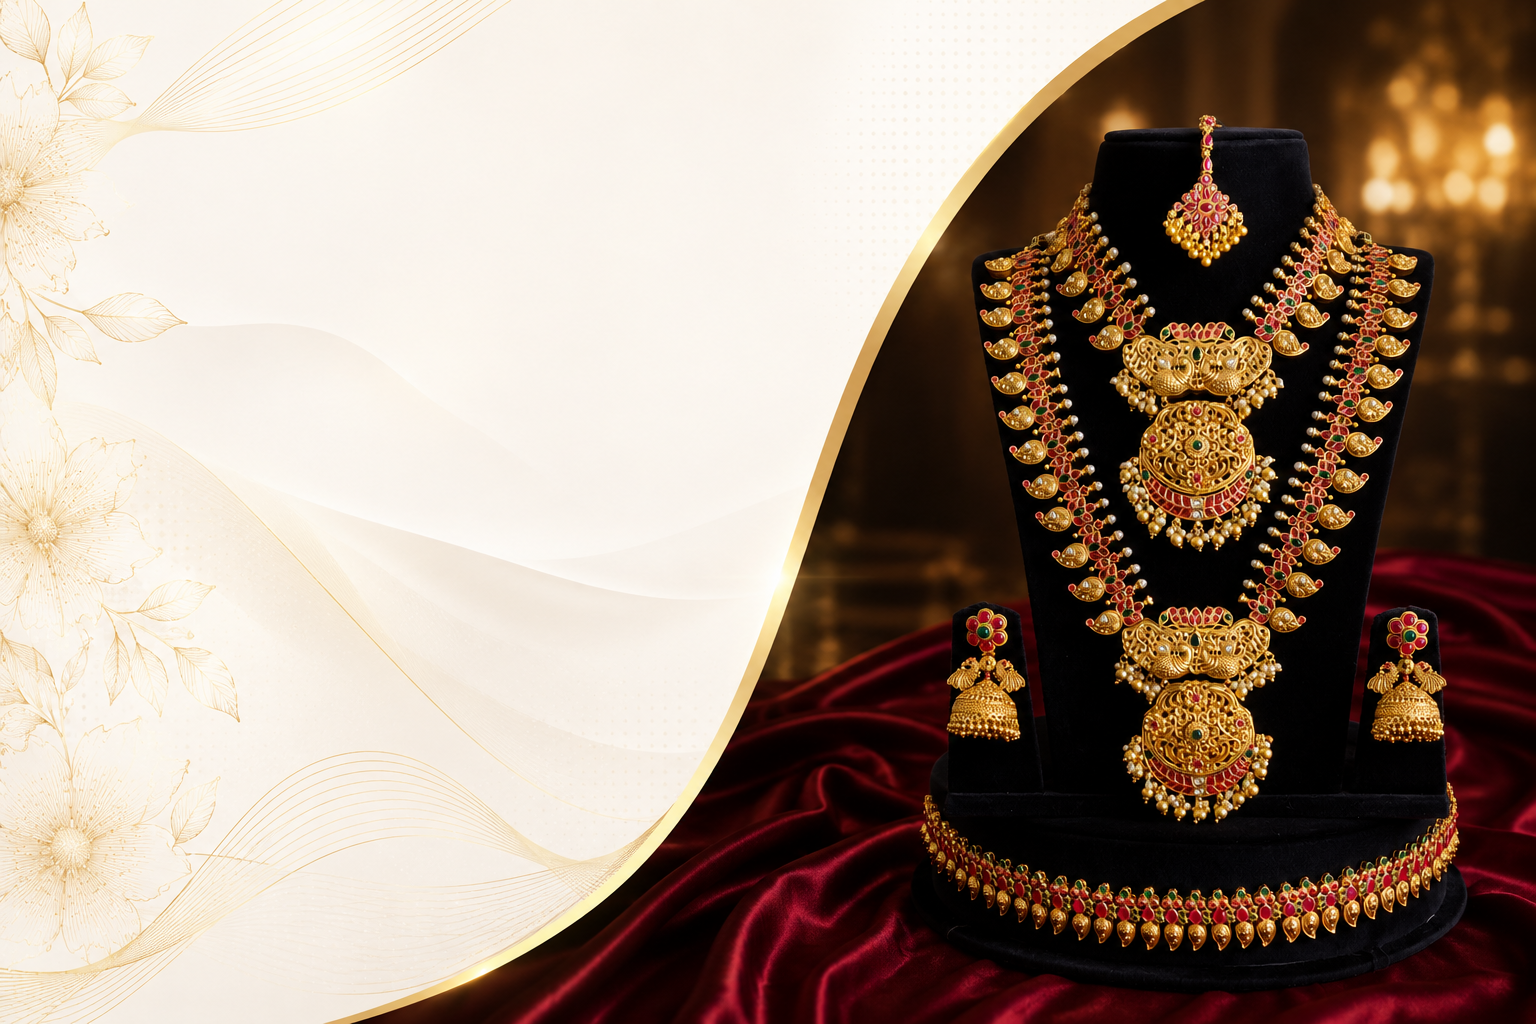
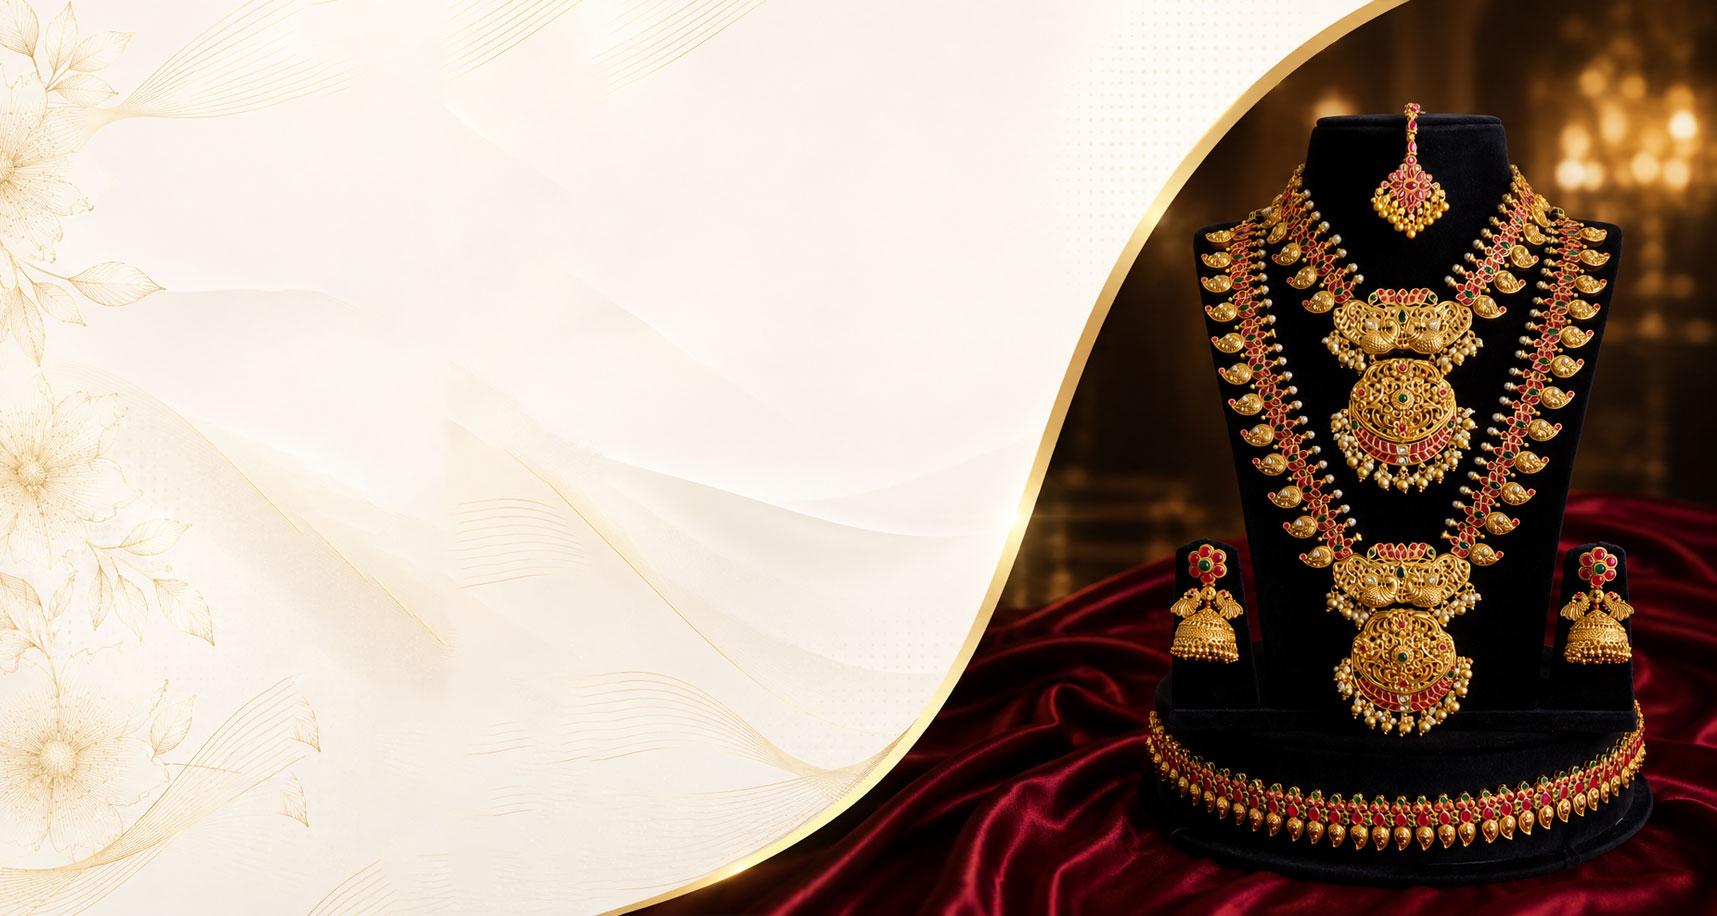
feat: update asset images and refactor hero components for improved layout and responsiveness

diff --git a/src/components/home/Bridal.jsx b/src/components/home/Bridal.jsx
@@ -99,11 +99,11 @@ export default function Bridal() {
           </div>
 
           {/* Right — Image Grid */}
-          <div className="reveal-bridal" style={{ display:'grid', gridTemplateColumns:'1fr 1fr', gridTemplateRows:'auto auto', gap:'16px' }}>
+          <div className="reveal-bridal" style={{ display:'grid', gridTemplateColumns:'1fr 1fr', gap:'16px', alignItems:'start' }}>
             <div className="bridal-top-img" style={{
               gridColumn:'1 / -1',
               borderRadius:'20px', overflow:'hidden',
-              height:'260px',
+              aspectRatio:'16/7',
               boxShadow:'0 16px 48px rgba(146,46,97,0.15)',
             }}>
               <img
@@ -117,13 +117,12 @@ export default function Bridal() {
             {bridalImages.slice(0, 2).map(img => (
               <div key={img.src} className="bridal-sub-img" style={{
                 borderRadius:'16px', overflow:'hidden',
-                height:'180px',
                 boxShadow:'0 12px 32px rgba(146,46,97,0.12)',
               }}>
                 <img
                   src={img.src}
                   alt={img.alt}
-                  style={{ width:'100%', height:'100%', objectFit:'cover', transition:'transform 0.6s ease' }}
+                  style={{ width:'100%', height:'auto', display:'block', transition:'transform 0.6s ease' }}
                   onMouseEnter={e => e.target.style.transform='scale(1.07)'}
                   onMouseLeave={e => e.target.style.transform='scale(1)'}
                 />
@@ -133,7 +132,7 @@ export default function Bridal() {
             <div style={{
               display:'flex', alignItems:'center', justifyContent:'center',
               borderRadius:'16px',
-              height:'180px',
+              aspectRatio:'4/3',
               background:'linear-gradient(135deg,#922e61,#7a2451)',
               border:'1px solid rgba(212,173,90,0.2)',
               flexDirection:'column', gap:'8px',
@@ -145,13 +144,12 @@ export default function Bridal() {
             {/* 5th — extra bridal image */}
             <div className="bridal-sub-img" style={{
               borderRadius:'16px', overflow:'hidden',
-              height:'180px',
               boxShadow:'0 12px 32px rgba(146,46,97,0.12)',
             }}>
               <img
                 src={bridalImg4}
                 alt="Bridal Temple Jewellery"
-                style={{ width:'100%', height:'100%', objectFit:'cover', transition:'transform 0.6s ease' }}
+                style={{ width:'100%', height:'auto', display:'block', transition:'transform 0.6s ease' }}
                 onMouseEnter={e => e.target.style.transform='scale(1.07)'}
                 onMouseLeave={e => e.target.style.transform='scale(1)'}
               />

diff --git a/src/components/about/AboutHero.jsx b/src/components/about/AboutHero.jsx
@@ -1,6 +1,6 @@
 import { useEffect, useRef } from 'react';
 import { Link } from 'react-router-dom';
-import AboutImage from '../../assets/AboutStore.jpg';
+import AboutImage from '../../assets/collections/gold/gold-antique.png';
 
 export default function AboutHero() {
   const ref = useRef(null);
@@ -31,7 +31,7 @@ export default function AboutHero() {
       <div style={{ position:'absolute', inset:0, background:'rgba(212,173,90,0.12)' }} />
 
       {/* Centered content */}
-      <div className="container about-hero-content" style={{ position:'relative', zIndex:2, display:'flex', flexDirection:'column', alignItems:'center', textAlign:'center', padding:'120px 24px 80px' }}>
+      <div className="container about-hero-content" style={{ position:'relative', zIndex:2, display:'flex', flexDirection:'column', alignItems:'center', textAlign:'center', padding:'160px 24px 80px' }}>
 
         {/* Badge */}
         <div className="ra" style={{ display:'inline-flex', alignItems:'center', gap:'10px', padding:'8px 22px', background:'rgba(212,173,90,0.15)', border:'1px solid rgba(212,173,90,0.50)', borderRadius:'50px', marginBottom:'28px' }}>
@@ -42,10 +42,10 @@ export default function AboutHero() {
 
         {/* Headline */}
         <div className="ra" style={{ marginBottom:'20px' }}>
-          <h1 style={{ margin:0, fontFamily:"'Poppins',sans-serif", fontSize:'clamp(32px,4.5vw,64px)', fontWeight:'700', lineHeight:'1.12', letterSpacing:'-1px', color:'#FFFFFF' }}>
+          <h1 style={{ margin:0, fontFamily:"'Poppins',sans-serif", fontSize:'clamp(26px,3.8vw,52px)', fontWeight:'700', lineHeight:'1.12', letterSpacing:'-1px', color:'#FFFFFF' }}>
             A Legacy Built on
           </h1>
-          <h1 style={{ margin:0, fontFamily:"'Poppins',sans-serif", fontSize:'clamp(32px,4.5vw,64px)', fontWeight:'700', lineHeight:'1.12', letterSpacing:'-1px', background:'linear-gradient(135deg,#d4ad5a 0%,#E8D08A 50%,#b08a3a 100%)', WebkitBackgroundClip:'text', WebkitTextFillColor:'transparent', backgroundClip:'text', paddingBottom:'6px' }}>
+          <h1 style={{ margin:0, fontFamily:"'Poppins',sans-serif", fontSize:'clamp(26px,3.8vw,52px)', fontWeight:'700', lineHeight:'1.12', letterSpacing:'-1px', background:'linear-gradient(135deg,#d4ad5a 0%,#E8D08A 50%,#b08a3a 100%)', WebkitBackgroundClip:'text', WebkitTextFillColor:'transparent', backgroundClip:'text', paddingBottom:'6px' }}>
             Trust, Craftsmanship &amp; Elegance
           </h1>
         </div>

diff --git a/src/components/gold/GoldHero.jsx b/src/components/gold/GoldHero.jsx
@@ -1,7 +1,7 @@
 import { useEffect, useRef } from "react";
 import { ArrowRight } from "lucide-react";
 import { Link } from "react-router-dom";
-import GoldHeroImg from "../../assets/GoldIntro.png";
+import GoldHeroImg from "../../assets/Goldhero.png";
 
 export default function GoldHero() {
   const ref = useRef(null);
@@ -32,29 +32,20 @@ export default function GoldHero() {
       className="hero-fixed"
       style={{
         position: "relative",
-        height: "620px",
-        overflow: "hidden",
       }}
     >
       <img
         src={GoldHeroImg}
         alt=""
-        style={{
-          position: "absolute",
-          inset: 0,
-          width: "100%",
-          height: "100%",
-          objectFit: "cover",
-          objectPosition: "center",
-        }}
+        style={{ width: "100%", height: "auto", display: "block" }}
       />
       <div style={{ position: "absolute", inset: 0, background: "rgba(0,0,0,0.18)" }} />
       <div
         className="container"
         style={{
-          position: "relative",
+          position: "absolute",
+          inset: 0,
           zIndex: 2,
-          height: "100%",
           display: "flex",
           flexDirection: "column",
           justifyContent: "center",
@@ -182,17 +173,6 @@ export default function GoldHero() {
           </Link>
         </div>
       </div>
-      <div
-        style={{
-          position: "absolute",
-          bottom: 0,
-          left: 0,
-          right: 0,
-          height: "60px",
-          background:
-            "linear-gradient(to top,rgba(250,246,238,0.45),transparent)",
-        }}
-      />
     </section>
   );
 }

diff --git a/src/components/platinum/PlatinumHero.jsx b/src/components/platinum/PlatinumHero.jsx
@@ -32,30 +32,21 @@ export default function PlatinumHero() {
       className="hero-fixed"
       style={{
         position: 'relative',
-        height: '620px',
-        overflow: 'hidden',
       }}
     >
       <img
         src={PlatinumHeroImg}
         alt=""
-        style={{
-          position: 'absolute',
-          inset: 0,
-          width: '100%',
-          height: '100%',
-          objectFit: 'cover',
-          objectPosition: 'center',
-        }}
+        style={{ width: '100%', height: 'auto', display: 'block' }}
       />
       <div style={{ position: 'absolute', inset: 0, background: 'rgba(0,0,0,0.18)' }} />
 
       <div
         className="container"
         style={{
-          position: 'relative',
+          position: 'absolute',
+          inset: 0,
           zIndex: 2,
-          height: '100%',
           display: 'flex',
           flexDirection: 'column',
           justifyContent: 'center',
@@ -158,16 +149,6 @@ export default function PlatinumHero() {
           </Link>
         </div>
       </div>
-      <div
-        style={{
-          position: 'absolute',
-          bottom: 0,
-          left: 0,
-          right: 0,
-          height: '60px',
-          background: 'linear-gradient(to top,rgba(250,246,238,0.45),transparent)',
-        }}
-      />
     </section>
   );
 }

diff --git a/src/components/diamond/DiamondHero.jsx b/src/components/diamond/DiamondHero.jsx
@@ -32,30 +32,21 @@ export default function DiamondHero() {
       className="hero-fixed"
       style={{
         position: 'relative',
-        height: '620px',
-        overflow: 'hidden',
       }}
     >
       <img
         src={DiamondHeroImg}
         alt=""
-        style={{
-          position: 'absolute',
-          inset: 0,
-          width: '100%',
-          height: '100%',
-          objectFit: 'cover',
-          objectPosition: 'center',
-        }}
+        style={{ width: '100%', height: 'auto', display: 'block' }}
       />
       <div style={{ position: 'absolute', inset: 0, background: 'rgba(0,0,0,0.18)' }} />
 
       <div
         className="container"
         style={{
-          position: 'relative',
+          position: 'absolute',
+          inset: 0,
           zIndex: 2,
-          height: '100%',
           display: 'flex',
           flexDirection: 'column',
           justifyContent: 'center',
@@ -158,16 +149,6 @@ export default function DiamondHero() {
           </Link>
         </div>
       </div>
-      <div
-        style={{
-          position: 'absolute',
-          bottom: 0,
-          left: 0,
-          right: 0,
-          height: '60px',
-          background: 'linear-gradient(to top,rgba(250,246,238,0.45),transparent)',
-        }}
-      />
     </section>
   );
 }

diff --git a/src/components/bridal/BridalHero.jsx b/src/components/bridal/BridalHero.jsx
@@ -32,30 +32,21 @@ export default function BridalHero() {
       className="hero-fixed"
       style={{
         position: 'relative',
-        height: '620px',
-        overflow: 'hidden',
       }}
     >
       <img
         src={BridalHeroImg}
         alt=""
-        style={{
-          position: 'absolute',
-          inset: 0,
-          width: '100%',
-          height: '100%',
-          objectFit: 'cover',
-          objectPosition: 'center',
-        }}
+        style={{ width: '100%', height: 'auto', display: 'block' }}
       />
       <div style={{ position: 'absolute', inset: 0, background: 'rgba(0,0,0,0.18)' }} />
 
       <div
         className="container"
         style={{
-          position: 'relative',
+          position: 'absolute',
+          inset: 0,
           zIndex: 2,
-          height: '100%',
           display: 'flex',
           flexDirection: 'column',
           justifyContent: 'center',
@@ -158,16 +149,6 @@ export default function BridalHero() {
           </Link>
         </div>
       </div>
-      <div
-        style={{
-          position: 'absolute',
-          bottom: 0,
-          left: 0,
-          right: 0,
-          height: '60px',
-          background: 'linear-gradient(to top,rgba(250,246,238,0.45),transparent)',
-        }}
-      />
     </section>
   );
 }

diff --git a/src/components/home/WhyChooseUs.jsx b/src/components/home/WhyChooseUs.jsx
@@ -71,7 +71,7 @@ export default function WhyChooseUs() {
         <div style={{ display: 'flex', alignItems: 'flex-end', justifyContent: 'space-between', marginBottom: '56px', flexWrap: 'wrap', gap: '24px' }}>
           <div>
             <div className="section-tag reveal-why">Why Choose Us</div>
-            <h2 className="reveal-why" style={{ fontFamily: "'Poppins',sans-serif", fontSize: 'clamp(28px,3vw,44px)', fontWeight: '600', color: '#1A1610', margin: 0 }}>
+            <h2 className="reveal-why" style={{ fontFamily: "'Poppins',sans-serif", fontSize: 'clamp(22px,2.2vw,34px)', fontWeight: '600', color: '#1A1610', margin: 0 }}>
               Why Families Trust{' '}
               <span style={{ color: '#d4ad5a' }}>Sri Lakshmi Thanga Maaligai</span>
             </h2>

diff --git a/src/components/bridal/BridalCategories.jsx b/src/components/bridal/BridalCategories.jsx
@@ -75,7 +75,6 @@ export default function BridalCategories() {
               }}>
               <div style={{ position: 'relative', aspectRatio: '1', overflow: 'hidden' }}>
                 <img src={img} alt={title} style={{ width: '100%', height: '100%', objectFit: 'cover', objectPosition: 'center', transition: 'transform 0.5s ease' }} />
-                <div style={{ position: 'absolute', inset: 0, background: 'linear-gradient(to top,rgba(26,18,8,0.72) 0%,transparent 55%)' }} />
                 <div style={{ position: 'absolute', top: '12px', left: '12px', fontSize: '10px', fontWeight: '700', color: GOLD, letterSpacing: '2px', textTransform: 'uppercase' }}>
                   {String(i + 1).padStart(2, '0')}
                 </div>

diff --git a/src/components/silver/SilverHero.jsx b/src/components/silver/SilverHero.jsx
@@ -30,12 +30,12 @@ export default function SilverHero() {
     <section
       ref={ref}
       className="hero-fixed"
-      style={{ position: 'relative', height: '620px', overflow: 'hidden' }}
+      style={{ position: 'relative' }}
     >
       <img
         src={SilverHeroImg}
         alt=""
-        style={{ position: 'absolute', inset: 0, width: '100%', height: '100%', objectFit: 'cover', objectPosition: 'center' }}
+        style={{ width: '100%', height: 'auto', display: 'block' }}
       />
       <div style={{ position: 'absolute', inset: 0, background: 'rgba(0,0,0,0.18)' }} />
 
